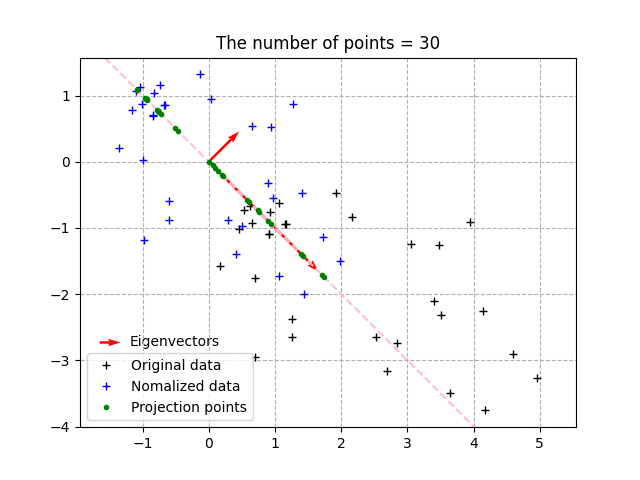
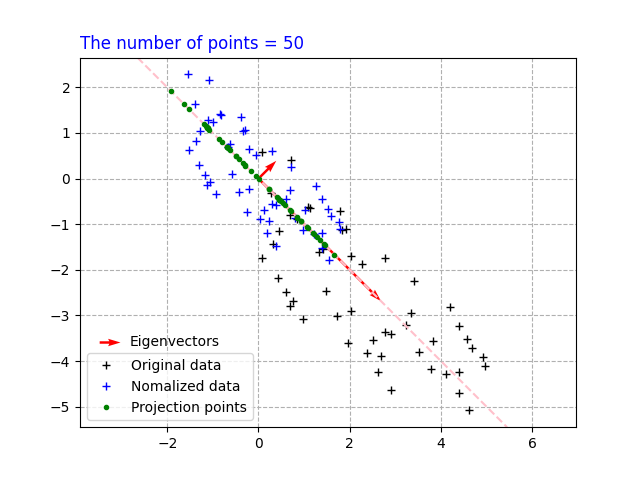
add Average squared reconstruction error

diff --git a/10.Dimensionality_reduction/PCA.py b/10.Dimensionality_reduction/PCA.py
@@ -1,8 +1,10 @@
 # Principal component analysis (PCA) with 2 dimensions
 import numpy as np
 import matplotlib.pyplot as plt
+# other instruction
+# http://www.math.union.edu/~jaureguj/PCA.pdf
 
-number_of_data = 30
+number_of_data = 50
 
 ## generating data
 def gererating_data(number_point):
@@ -10,7 +12,7 @@ def gererating_data(number_point):
 
     # y = a*x + b
     a = np.random.uniform(low=-2.0, high=2.0)
-    b = np.random.uniform(low=-2.0, high=2.0)
+    b = np.random.uniform(low=-3.0, high=3.0)
     x2 = a*x1 + b - x1[::-1]*2/3 
 
     plt.plot(x1, x2, 'k+', label='Original data')
@@ -54,7 +56,7 @@ def eigendecomposition_of_S(X):
     return λ, B
 
 ## Step 4: Projection 
-def projection():
+def projection(B, X):
     # get the highest λ with its respective eigenvector b
     b_m = B[:,0]
     if λ[0] < λ[1]:
@@ -63,34 +65,31 @@ def projection():
     # draw the line for projection
     plt.axline((0, 0), (b_m[0,0], b_m[1,0]), color='pink', linestyle='--')
 
-    # Z = Bt * X
+    # Z = Bt * X - Coordinate on the basis of b_m
     Z = b_m.T*X
 
-    # calculate (x,y) of each projection points on the line just draw above
-    X_on_b_m = []
-    for z in np.nditer(Z):
-        val = np.sqrt(z*z/(1+(b_m[1,0]*b_m[1,0])/(b_m[0,0]*b_m[0,0])))*z/np.absolute(z)
-        X_on_b_m.append(val)
-        
-    X_on_b_m = np.array(X_on_b_m)
-    Y_on_b_m = X_on_b_m*b_m[1,0]/b_m[0,0]
+    # projection of X with coordinates Z 
+    X_projection = b_m*Z
 
-    plt.plot(X_on_b_m, Y_on_b_m, 'g.', label='Projection points')
-    return b_m, Z
+    plt.plot(np.asarray(X_projection)[0,:], np.asarray(X_projection)[1,:], 'g.',  label='Projection points')
+    return b_m, Z, X_projection
 
-# Step 1 + Step 2: Nomalization
+# Preparing data
 x1, x2 = gererating_data(number_of_data)
 
-# Step 3: Eigendecomposition of the covariance matrix
+# Step 1 + Step 2: Nomalization
 x1, x2 = nomalization(x1, x2)
 X = np.matrix([x1, x2])
 
-# Step 4: Projection
+# Step 3: Eigendecomposition of the covariance matrix
 λ, B = eigendecomposition_of_S(X)
-b_m, Z = projection()
 
-# X_star = b_m*b_m.T*X
-# plt.plot(X_star[0], X_star[1], 'y^')
+# Step 4: Projection
+b_m, Z, X_projection = projection(B, X)
+
+# Average squared reconstruction error
+error_sum = np.power(X-X_projection, 2).sum()
+print("Average squared reconstruction error: " + str(error_sum))
 
 # Drawing
 plt.axis('equal')
